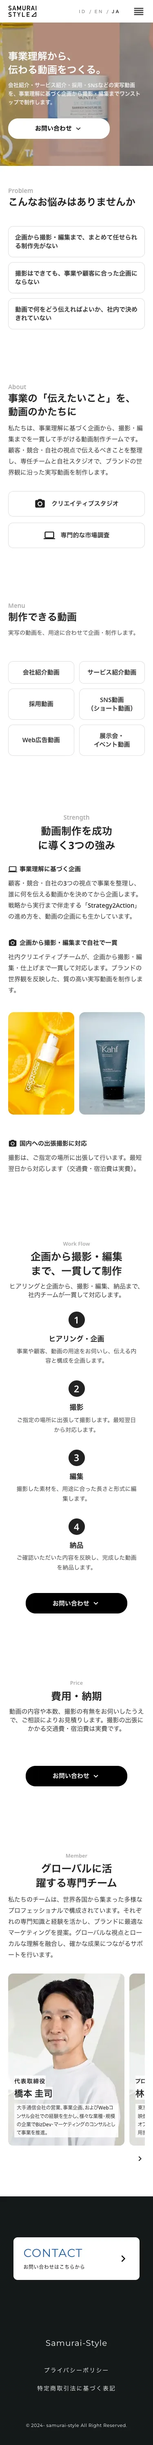
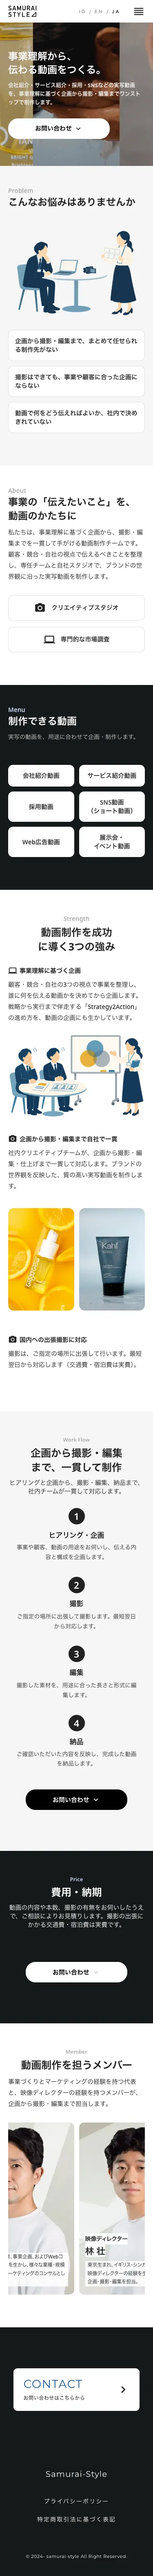
handover: video page tones, member, illustrations

diff --git a/docs/samurai-site-handover/index.html b/docs/samurai-site-handover/index.html
@@ -225,6 +225,8 @@ td code{font-family:var(--mono);font-size:13px;background:var(--code);padding:1p
       <div class="field"><span>Chip 1</span><div class="cp"><div class="txt">企画から撮影・編集まで、まとめて任せられる制作先がない</div><button class="copy" type="button">Copy</button></div></div>
       <div class="field"><span>Chip 2</span><div class="cp"><div class="txt">撮影はできても、事業や顧客に合った企画にならない</div><button class="copy" type="button">Copy</button></div></div>
       <div class="field"><span>Chip 3</span><div class="cp"><div class="txt">動画で何をどう伝えればよいか、社内で決めきれていない</div><button class="copy" type="button">Copy</button></div></div>
+      <p class="note"><b>Illustration</b> to the right of the heading. Heading column: replace <code>flex-col items-start</code> with <code>flex-row items-end justify-between gap-[40px] max-md:flex-col max-md:items-start</code>. Image classes: <code>w-[400px] max-w-[45%] h-auto max-md:w-[300px] max-md:max-w-full max-md:self-center</code>.</p>
+      <div class="cardimg"><img src="img/video-problem.webp" alt="動画づくりに悩む会社員2人のイラスト" width="500" style="background:#f5f5f5"><p class="note">File: <a href="img/video-problem.webp" download>video-problem.webp</a> (transparent background). Alt text:</p><div class="cp"><div class="txt">動画づくりに悩む会社員2人のイラスト</div><button class="copy" type="button">Copy</button></div></div>
     </div></li>
 
     <li><div class="body">
@@ -273,6 +275,8 @@ td code{font-family:var(--mono);font-size:13px;background:var(--code);padding:1p
       <p><span class="tag rep">Replace</span>Strength block 「効果的なマーケティングの本質」: new heading and text, remove its image (the micro-influencer database screenshot), and <b>move it to the first position</b>. Keep its laptop icon.</p>
       <div class="field"><span>Heading</span><div class="cp"><div class="txt">事業理解に基づく企画</div><button class="copy" type="button">Copy</button></div></div>
       <div class="field"><span>Text</span><div class="cp"><div class="txt">顧客・競合・自社の3つの視点で事業を整理し、誰に何を伝える動画かを決めてから企画します。戦略から実行まで伴走する「Strategy2Action」の進め方を、動画の企画にも生かしています。</div><button class="copy" type="button">Copy</button></div></div>
+      <p class="note"><b>Illustration</b> in the image column of this block (where the removed screenshot was). Wrapper: <code>flex w-1/2 items-center justify-center max-md:w-full max-md:max-w-[450px]</code>, image <code>h-auto w-full</code>.</p>
+      <div class="cardimg"><img src="img/video-plan.webp" alt="動画の企画会議で3つの視点を説明するイラスト" width="500" style="background:#f5f5f5"><p class="note">File: <a href="img/video-plan.webp" download>video-plan.webp</a> (transparent background). Alt text:</p><div class="cp"><div class="txt">動画の企画会議で3つの視点を説明するイラスト</div><button class="copy" type="button">Copy</button></div></div>
     </div></li>
 
     <li><div class="body">
@@ -315,23 +319,49 @@ td code{font-family:var(--mono);font-size:13px;background:var(--code);padding:1p
     </div></li>
 
     <li><div class="body">
-      <p><span class="tag keep">No change</span>Member (three members) stays as it is.</p>
+      <p><span class="tag rep">Replace</span>Member: heading, paragraph, and the role and profile of 林 壮</p>
+      <div class="field"><span>Heading now</span><div class="cp"><div class="txt old">グローバルに活躍する専門チーム</div></div></div>
+      <div class="field"><span>Heading new</span><div class="cp"><div class="txt">動画制作を担うメンバー</div><button class="copy" type="button">Copy</button></div></div>
+      <div class="field"><span>Text new</span><div class="cp"><div class="txt">事業づくりとマーケティングの経験を持つ代表と、映像ディレクターの経験を持つメンバーが、企画から撮影・編集まで担当します。</div><button class="copy" type="button">Copy</button></div></div>
+      <div class="field"><span>林 壮: role</span><div class="cp"><div class="txt">映像ディレクター</div><button class="copy" type="button">Copy</button></div></div>
+      <div class="field"><span>林 壮: profile</span><div class="cp"><div class="txt">東京生まれ、イギリス・シンガポール育ち。
+映像ディレクターの経験を生かし、動画制作の企画・撮影・編集を担当。</div><button class="copy" type="button">Copy</button></div></div>
+      <p class="note">Keep the line break after 「育ち。」. 橋本 圭司 stays as it is.</p>
+    </div></li>
+
+    <li><div class="body">
+      <p><span class="tag rm">Remove</span>Member: remove the 3rd card 「フルスタックエンジニア / Satrio Buwono」 and the scroll arrow under the cards. Card row: <code>justify-start</code> becomes <code>justify-center</code>, so the 2 cards sit in the centre.</p>
     </div></li>
   </ol>
 
-  <h3>Style changes: dark theme to light theme</h3>
-  <p class="note">Apply to every section under the hero, including the two new ones. The hero keeps white text on the video. The new values are already used on the other pages (for example /marketing-support).</p>
+  <h3>Style changes: section colours</h3>
+  <p class="note">The page alternates light grey, white and dark sections. Dark sections keep the current dark classes; grey and white sections use the light values below.</p>
+  <div class="tw">
+    <table>
+      <thead><tr><th>Section</th><th>Background</th><th>Text</th></tr></thead>
+      <tbody>
+        <tr><td>Hero</td><td>video (no change)</td><td>white (no change)</td></tr>
+        <tr><td>Problem</td><td><code>bg-[#f5f5f5]</code></td><td>light values</td></tr>
+        <tr><td>About</td><td><code>bg-white</code></td><td>light values</td></tr>
+        <tr><td>Menu</td><td><code>bg-coal-dark</code> (current dark)</td><td>current dark values: <code>text-white</code>, label <code>text-[#c9d9f9]</code>, paragraph <code>text-[#c8c8c8]</code>. Chips stay white.</td></tr>
+        <tr><td>Strength</td><td><code>bg-white</code></td><td>light values</td></tr>
+        <tr><td>Work Flow</td><td><code>bg-[#f5f5f5]</code></td><td>light values</td></tr>
+        <tr><td>Price</td><td><code>bg-coal-dark</code> (current dark)</td><td>current dark values. The 「お問い合わせ」 button stays white.</td></tr>
+        <tr><td>Member</td><td><code>bg-white</code></td><td>light values</td></tr>
+      </tbody>
+    </table>
+  </div>
+  <p class="note"><b>Light values</b> (grey and white sections):</p>
   <div class="tw">
     <table>
       <thead><tr><th>Where</th><th>Now</th><th>New</th></tr></thead>
       <tbody>
-        <tr><td>Section background</td><td><code>bg-coal-dark</code></td><td><code>bg-white</code></td></tr>
         <tr><td>Headings, body text and icons that are white</td><td><code>text-white</code></td><td><code>text-[#222222]</code></td></tr>
-        <tr><td>Small labels 「Problem」「About」「Menu」「Strength」「Work Flow」「Price」「Member」</td><td><code>text-[#c9d9f9]</code></td><td><code>text-[#aaaaaa]</code></td></tr>
+        <tr><td>Small labels (Problem, About, Strength, Work Flow, Member)</td><td><code>text-[#c9d9f9]</code></td><td><code>text-[#aaaaaa]</code></td></tr>
         <tr><td>Step descriptions in Work Flow</td><td><code>text-[#c8c8c8]</code></td><td><code>text-[#333]</code></td></tr>
-        <tr><td>Problem, About and Menu: the white chips</td><td><code>rounded-[12px] bg-white</code></td><td>add <code>border border-[#dddddd]</code></td></tr>
+        <tr><td>Problem and About: the white chips</td><td><code>rounded-[12px] bg-white</code></td><td>add <code>border border-[#dddddd]</code></td></tr>
         <tr><td>Work Flow: number circles</td><td><code>bg-white</code>, number in dark text</td><td><code>bg-[#222222]</code>, number <code>text-white</code></td></tr>
-        <tr><td>「お問い合わせ」 buttons in Work Flow and Price</td><td><code>bg-white</code>, text and arrow <code>#333</code></td><td><code>bg-black</code>, text and arrow <code>text-white</code> (same as the black buttons on /service). The button in the hero stays white.</td></tr>
+        <tr><td>「お問い合わせ」 button in Work Flow</td><td><code>bg-white</code>, text and arrow <code>#333</code></td><td><code>bg-black</code>, text and arrow <code>text-white</code></td></tr>
       </tbody>
     </table>
   </div>
